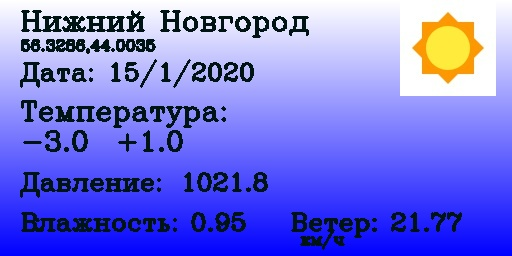
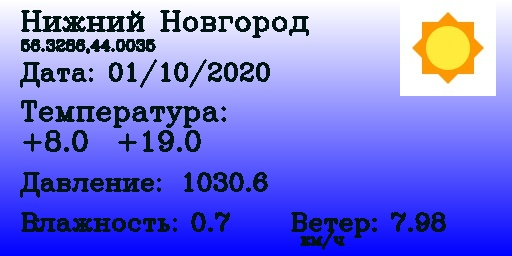
16 задание. доработка кода, Обработка входных параметров

diff --git a/lesson_016/01_weather_run.py b/lesson_016/01_weather_run.py
@@ -1,24 +1,62 @@
 from WeatherMaker import WeatherMaker
+from DatabaseUpdater import DatabaseUpdater
 from ImageMaker import ImageMaker
+
+import datetime
+import re
+
+re_date = re.compile(
+    r'^(?:(?:31(\/|-|\.)(?:0?[13578]|1[02]))\1|(?:(?:29|30)(\/|-|\.)(?:0?[1,3-9]|1[0-2])\2))(?:(?:1[6-9]|[2-9]\d)?\d{2})$|^(?:29(\/|-|\.)0?2\3(?:(?:(?:1[6-9]|[2-9]\d)?(?:0[48]|[2468][048]|[13579][26])|(?:(?:16|[2468][048]|[3579][26])00))))$|^(?:0?[1-9]|1\d|2[0-8])(\/|-|\.)(?:(?:0?[1-9])|(?:1[0-2]))\4(?:(?:1[6-9]|[2-9]\d)?\d{2})$')
 
 
 class WeatherHandler:
-    def __init__(self, location, stare_date, final_date=None, is_rewrite_db=False, is_card=True, is_console=False):
+    def __init__(self, location, start_date, final_date=None, is_write_db=False, is_read_db=False, is_card=True,
+                 is_console=False):
         self.location = location
-        self.stare_date = stare_date
-        if final_date is None:
-            self.final_date = stare_date
+        self.start_date = start_date
         self.is_card = is_card
-        self.is_rewrite = is_rewrite_db
+        self.is_write_db = is_write_db
+        self.is_read_db = is_read_db
         self.is_console = is_console
+        self.final_date = final_date
 
     def run(self):
-        pass
+        if not self.get_dates():
+            return False
+        weather_dict = WeatherMaker(self.location, self.start_date).run()
+        if not weather_dict:
+            return False
+        if self.is_card:
+            ImageMaker(weather_dict).run()
+        if self.is_write_db:
+            a = DatabaseUpdater()
+            a.insert_row(weather_dict)
+        return True
+
+    def get_dates(self):
+        self.start_date = self.convert_date(self.start_date)
+        if self.start_date is None:
+            print('Дата должна быть указана в формате DD-MM-YYYY')
+            return False
+        if self.final_date is None:
+            self.final_date = self.start_date
+        else:
+            self.final_date = self.convert_date(self.final_date)
+            if self.final_date is None:
+                print('Финальная дата должна быть указана в формате DD-MM-YYYY')
+                return False
+        return True
+
+    def convert_date(self, date):
+        if date:
+            match = re.match(re_date, date)
+            if match and len(date) == 10:
+                date = datetime.date(day=int(date[:2]), month=int(date[3:5]), year=int(date[6:10]))
+                return date
+        else:
+            return False
 
 
 if __name__ == "__main__":
-    weather = WeatherMaker('Нижний Новгород', '2020-1-15')
-    # weather = WeatherMaker('Эйлат', '2020-11-10')
-    weather_dict = weather.run()
-    image = ImageMaker(weather_dict)
-    image.run()
+    WeatherHandler('Нижний Новгород', '01-10-2020').run()
+    WeatherHandler('Эйлат', '01-10-2020', is_write_db=True, is_card=False).run()

diff --git a/lesson_016/WeatherMaker.py b/lesson_016/WeatherMaker.py
@@ -4,6 +4,7 @@ from geopy.geocoders import OpenMapQuest
 import bs4
 import requests
 import re
+import datetime
 
 OpenMapQuest_API_KEY = 'kvDuJJUTE50Ax5XG8mxbCVDGnQqHFdvL'
 
@@ -44,9 +45,10 @@ class WeatherMaker:
         re_wind_speed = r'"windSpeed":(\d+\.\d+)'
         re_cloudiness = r'"summary":"([A-Za-z ]+)"'
         re_precipitation = r'"precipType":"([A-Za-z ]+)"'
+        requests_date = self.date.strftime("%Y-%m-%d")
 
         try:
-            response = requests.get(f'https://darksky.net/details/{self.coordinates}/{self.date}/ca12/en').text
+            response = requests.get(f'https://darksky.net/details/{self.coordinates}/{requests_date}/ca12/en').text
         except Exception:
             print('Ошибка запроса прогноза погоды')
             return False
@@ -93,10 +95,9 @@ class WeatherMaker:
         else:
             min_temperature = str(min(temperature_values))
 
-        year, month, day = self.date.split('-')
-        self.date = day + '/' + month + '/' + year
+        print_date = self.date.strftime("%d/%m/%Y")
 
-        weather_dict = {'location_name': self.location_name, 'coordinates': self.coordinates, 'date': self.date,
+        weather_dict = {'location_name': self.location_name, 'coordinates': self.coordinates, 'date': print_date,
                         'max_temp': max_temperature, 'min_temp': min_temperature, 'pressures': pressures,
                         'cloudiness': cloudiness, 'humidity': humidity, 'wind_speed': wind_speed,
                         'cloud_cover': cloud_cover, 'precipitation': precipitation,

diff --git a/lesson_016/DatabaseUpdater.py b/lesson_016/DatabaseUpdater.py
@@ -27,25 +27,30 @@ class Weather(BaseTable):
 
 
 class DatabaseUpdater:
-    def __init__(self, weather_dict, ):
-        self.weather_dict = weather_dict
-
-    def run(self):
-        pass
+    def __init__(self):
+        self.connection = None
+        database.create_tables([Weather])
+        # try:
+        #     self.connection = sqlite3.connect("database/weather.db")
+        # except Exception:
+        #     print('Ошибка открытия базы данных')
 
     def select_row(self):
         pass
 
-    def insert_row(self):
-        pass
+    def insert_row(self, weather_dict):
+        Weather(location_name=weather_dict['location_name'],
+                coordinates=weather_dict['coordinates'],
+                date=weather_dict['date'],
+                max_temp=weather_dict['max_temp'],
+                min_temp=weather_dict['min_temp'],
+                pressures=weather_dict['pressures'],
+                cloudiness=weather_dict['cloudiness'],
+                cloud_cover=weather_dict['cloud_cover'],
+                precipitation=weather_dict['precipitation'],
+                humidity=weather_dict['humidity'],
+                wind_speed=weather_dict['wind_speed'],
+                precipitation_hours=weather_dict['precipitation_hours'])
 
 
-database.create_tables([Weather])
 
-conn = sqlite3.connect("database/weather.db")
-conn.text_factory = bytes
-cursor = conn.cursor()
-
-cursor.execute('SELECT * FROM Weather')
-results = cursor.fetchall()
-print(results)
